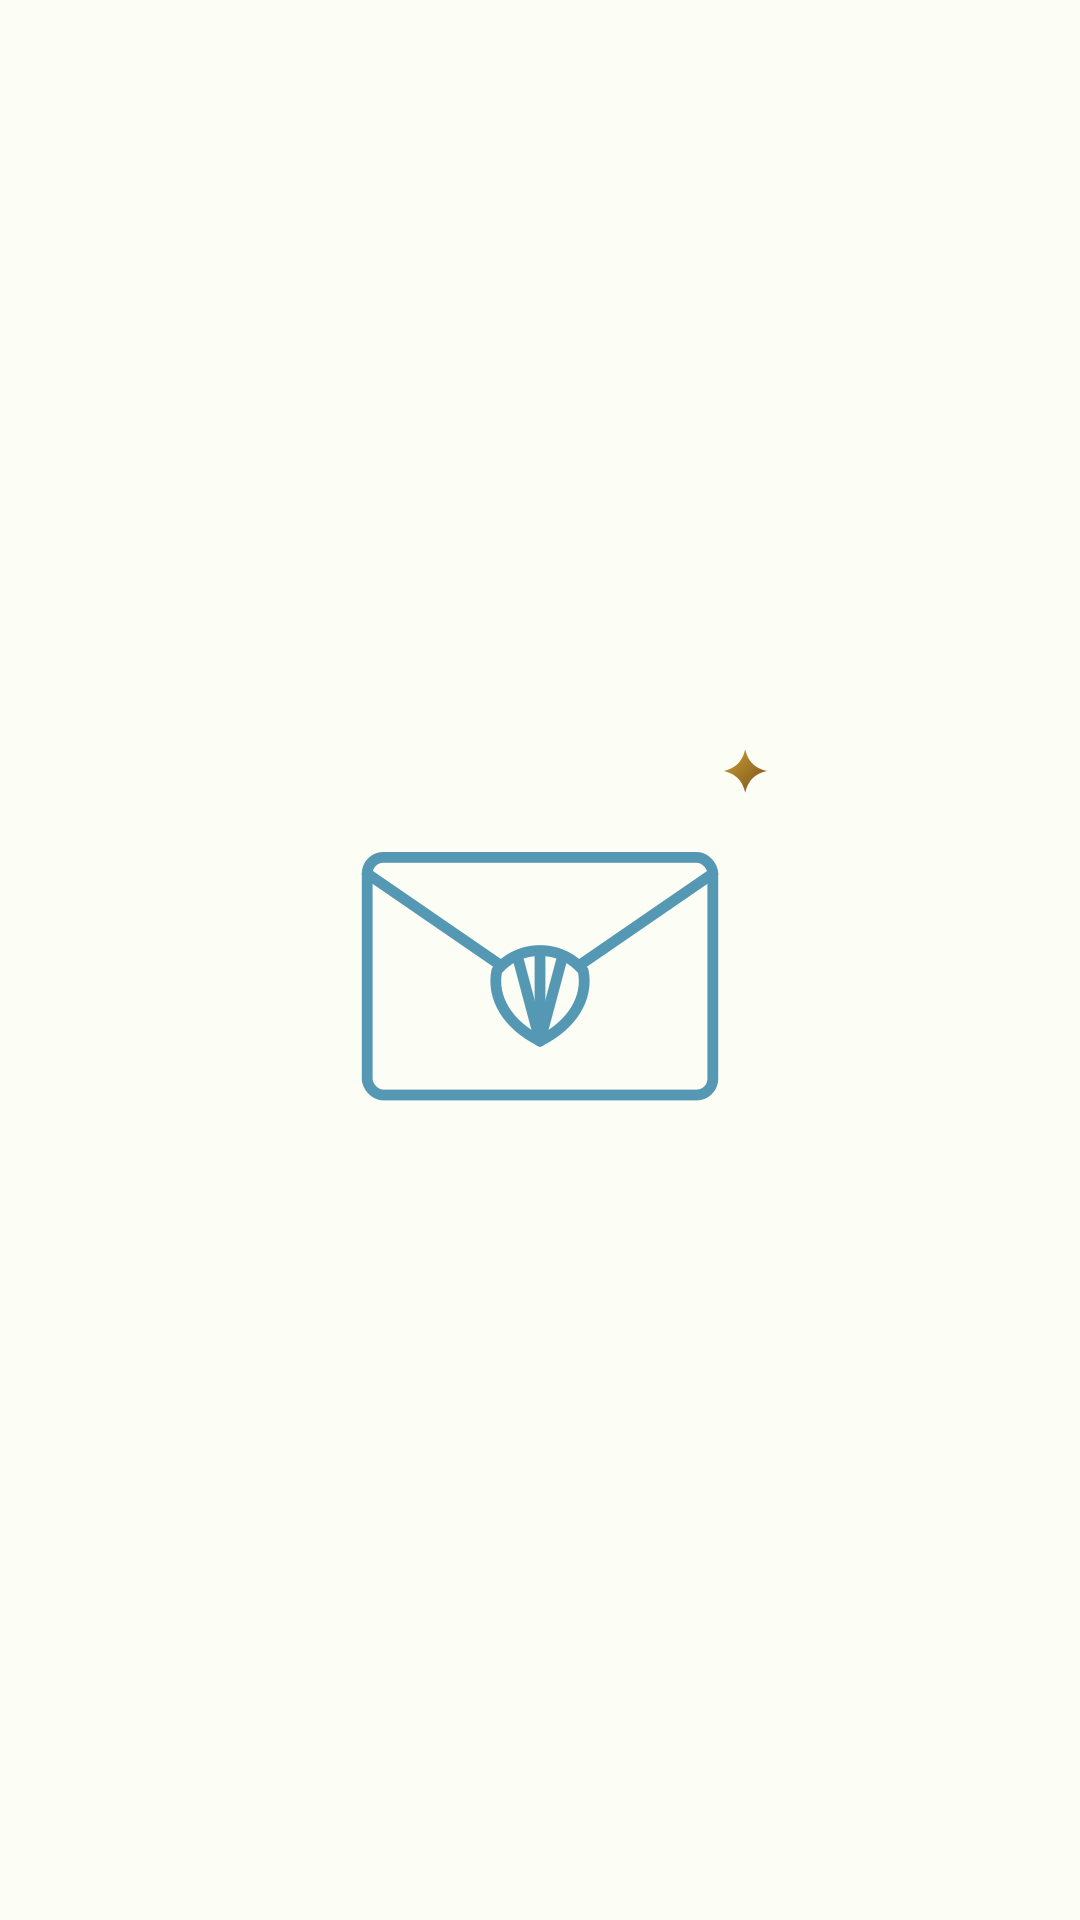
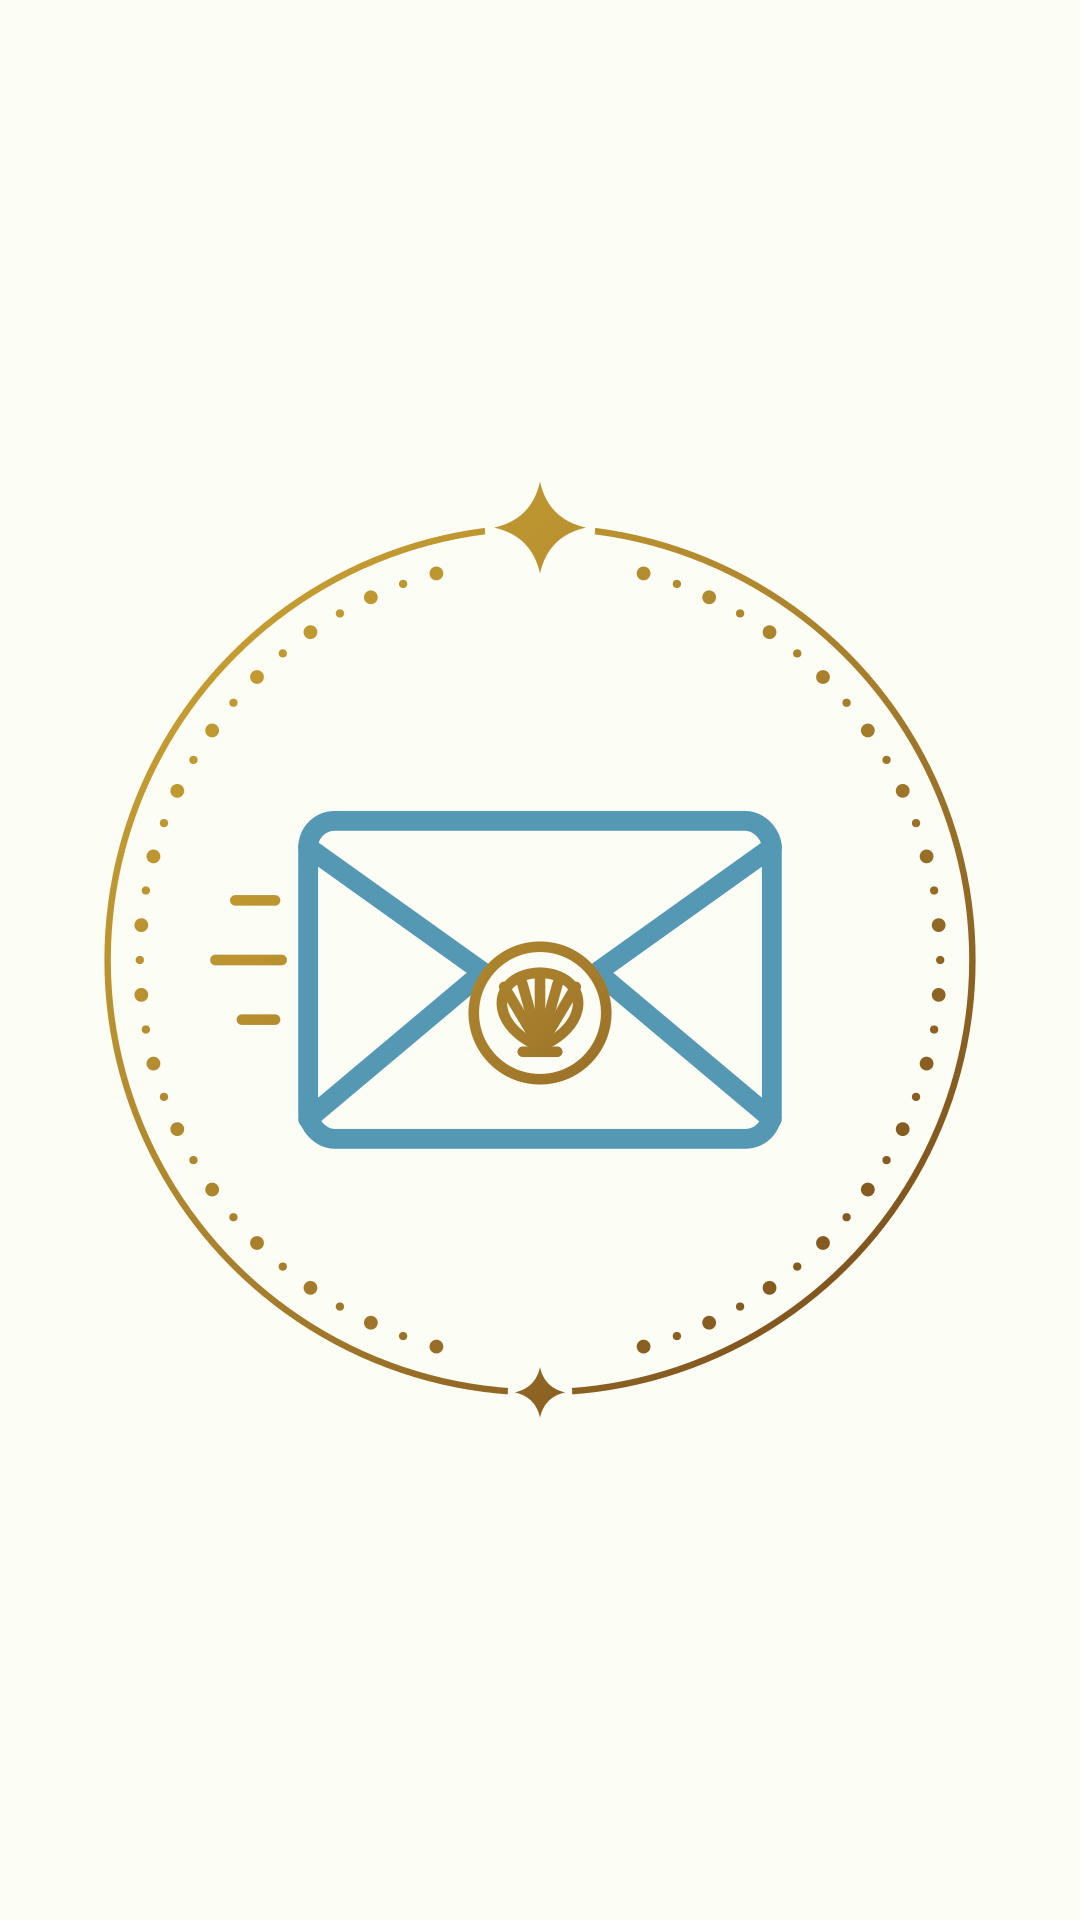
Deixa as capas dos destaques mais elaboradas, com moldura dourada e ícones em dois tons
Claude-Session: https://claude.ai/code/session_01SEXCXHhE5rPsFTnWY19DpN

diff --git a/madame-solara/gerar_destaques.py b/madame-solara/gerar_destaques.py
@@ -1,4 +1,9 @@
-"""Capas dos destaques do Instagram da Madame Solara, com ícones de traço fino."""
+"""Capas dos destaques do Instagram da Madame Solara.
+
+Cada capa tem uma moldura dourada com os pontinhos do logo e um ícone de moda praia em dois tons:
+traço principal azul e detalhes dourados.
+"""
+import math
 import os
 
 import cairosvg
@@ -6,44 +11,44 @@ import cairosvg
 AQUI = os.path.dirname(os.path.abspath(__file__))
 CREME = "#FCFDF5"
 AZUL = "#5598B3"
+OURO = "#A57D2C"
 W, H = 1080, 1920  # formato de story; o Instagram recorta o círculo do centro
+ESCALA = 4.6       # grade de 200 -> 920 px; o anel ocupa ~80% do círculo do destaque
 
-# Ícones desenhados numa grade de 200 x 200, todos com elementos de moda praia
-ICONES = {
-    "trocas": """
-        <path d="M66 82 Q62 104 72 118 Q86 123 97 113 Q86 97 66 82 Z"/>
-        <path d="M134 82 Q138 104 128 118 Q114 123 103 113 Q114 97 134 82 Z"/>
-        <path d="M66 82 C72 70 82 62 90 56"/><path d="M134 82 C128 70 118 62 110 56"/>
-        <path d="M72 118 Q58 121 46 116"/><path d="M128 118 Q142 121 154 116"/>
-        <circle cx="100" cy="113" r="2.4" fill="{traco}" stroke="none"/><path d="M32.3 75.4 A72 72 0 0 1 162.4 64.0"/><path d="M163.3 53.1 L162.4 64.0 L152.4 59.4"/><path d="M167.7 124.6 A72 72 0 0 1 37.6 136.0"/><path d="M36.7 146.9 L37.6 136.0 L47.6 140.6"/>""",
-    "pagamentos": """
-        <path d="M52 82 H148 L141 160 Q140 166 134 166 H66 Q60 166 59 160 Z"/>
-        <path d="M80 82 V72 C80 42 120 42 120 72 V82"/>
-        <path d="M56 104 C68 98 78 98 90 104 S112 110 124 104 S138 99 145 103"/>
-        <text x="100" y="151" text-anchor="middle" font-family="Italiana" font-size="36"
-              fill="{traco}" stroke="none">R$</text>""",
-    "envios": """
-        <rect x="36" y="62" width="128" height="88" rx="6"/>
-        <path d="M36 68 L100 112 L164 68"/>
-        <path d="M100 130 C88 124 82 114 84 104 C92 94 108 94 116 104 C118 114 112 124 100 130 Z" fill="{fundo}"/>
-        <path d="M100 130 L92 100"/><path d="M100 130 L100 97"/><path d="M100 130 L108 100"/>""",
-    "horarios": """
-        <path d="M50 112 A50 50 0 0 1 150 112"/><path d="M40.1 96.0 L26.6 92.3"/><path d="M56.2 68.2 L46.3 58.3"/><path d="M84.0 52.1 L80.3 38.6"/><path d="M116.0 52.1 L119.7 38.6"/><path d="M143.8 68.2 L153.7 58.3"/><path d="M159.9 96.0 L173.4 92.3"/>
-        <path d="M100 112 V82"/><path d="M100 112 L120 101"/>
-        <path d="M38 126 C53 118 68 118 83 126 S113 134 128 126 S152 119 162 125"/>
-        <path d="M62 142 C74 136 86 136 98 142 S122 148 138 142"/>""",
-    "localizacao": """
-        <path d="M100 148 C100 148 64 112 64 84 A36 36 0 0 1 136 84 C136 112 100 148 100 148 Z"/>
-        <circle cx="100" cy="84" r="12"/>
-        <path d="M44 166 C57 159 70 159 83 166 S109 173 122 166 S146 159 156 165"/>""",
-    "cuidados": """
-        <path d="M100 58 V52 C100 45 109 42 110 35 C111 28 103 24 97 27"/>
-        <path d="M100 58 L46 84 Q40 88 47 88 H153 Q160 88 154 84 Z"/>
-        <path d="M71 88 L75 104"/><path d="M129 88 L125 104"/>
-        <path d="M75 104 Q67 128 77 143 Q90 147 98 136 Q90 118 75 104 Z"/>
-        <path d="M125 104 Q133 128 123 143 Q110 147 102 136 Q110 118 125 104 Z"/>
-        <circle cx="100" cy="136" r="2.4" fill="{traco}" stroke="none"/>""",
-}
+
+def arco_seta(cx, cy, r, a0, a1):
+    """Arco no sentido horário com ponta de seta no fim."""
+    rad = math.radians
+    x0, y0 = cx + r * math.cos(rad(a0)), cy + r * math.sin(rad(a0))
+    x1, y1 = cx + r * math.cos(rad(a1)), cy + r * math.sin(rad(a1))
+    tx, ty = -math.sin(rad(a1)), math.cos(rad(a1))
+    nx, ny = math.cos(rad(a1)), math.sin(rad(a1))
+    L = 10
+    h1 = (x1 - tx * L + nx * L * 0.75, y1 - ty * L + ny * L * 0.75)
+    h2 = (x1 - tx * L - nx * L * 0.75, y1 - ty * L - ny * L * 0.75)
+    return (f'<path d="M{x0:.1f} {y0:.1f} A{r} {r} 0 0 1 {x1:.1f} {y1:.1f}"/>'
+            f'<path d="M{h1[0]:.1f} {h1[1]:.1f} L{x1:.1f} {y1:.1f} L{h2[0]:.1f} {h2[1]:.1f}"/>')
+
+
+def pontos(x0, x1, y, passo=9, onda=0.0):
+    """Fileira de pontinhos alternados, como os do sol do logo."""
+    s = []
+    for k, x in enumerate(range(x0, x1 + 1, passo)):
+        yy = y + onda * math.sin(k * 0.9)
+        s.append(f'<circle cx="{x}" cy="{yy:.1f}" r="{2.2 if k % 2 else 1.4}" fill="url(#ouro)" stroke="none"/>')
+    return "".join(s)
+
+
+def concha(cx, cy, w):
+    """Concha de leque (vieira) com nervuras."""
+    h = w * 0.86
+    bx, by = cx, cy + h / 2
+    s = (f'<path d="M{bx} {by} C{cx - w*0.62} {cy + h*0.2} {cx - w*0.56} {cy - h*0.48} {cx} {cy - h/2} '
+         f'C{cx + w*0.56} {cy - h*0.48} {cx + w*0.62} {cy + h*0.2} {bx} {by} Z" fill="{CREME}"/>')
+    for a in (-0.32, -0.16, 0, 0.16, 0.32):
+        s += f'<path d="M{bx} {by} L{cx + a*w*1.3:.1f} {cy - h*0.42 + abs(a)*h*0.35:.1f}"/>'
+    s += f'<path d="M{cx - w*0.2:.1f} {by + 1.5:.1f} H{cx + w*0.2:.1f}"/>'
+    return s
 
 
 def brilho(x, y, r):
@@ -52,21 +57,107 @@ def brilho(x, y, r):
             f'Q{x-k},{y+k} {x-r},{y} Q{x-k},{y-k} {x},{y-r} Z" fill="url(#ouro)" stroke="none"/>')
 
 
-def capa(nome):
-    escala = 2.7  # ícone de 540 px, metade do círculo do destaque
-    x0 = W / 2 - 100 * escala
-    y0 = H / 2 - 100 * escala
-    corpo = ICONES[nome].replace("{fundo}", CREME).replace("{traco}", AZUL)
+def biquini_top(cx, cy, k=1.0):
+    """Top cortininha: bojos e alças em azul; costura e laço em dourado."""
+    def t(x, y):
+        return f"{cx + (x - 100) * k:.1f} {cy + (y - 100) * k:.1f}"
+    azul = (f'<path d="M{t(64, 78)} Q{t(58, 104)} {t(70, 120)} Q{t(86, 126)} {t(97, 114)} Q{t(86, 95)} {t(64, 78)} Z"/>'
+            f'<path d="M{t(136, 78)} Q{t(142, 104)} {t(130, 120)} Q{t(114, 126)} {t(103, 114)} Q{t(114, 95)} {t(136, 78)} Z"/>'
+            f'<path d="M{t(64, 78)} C{t(70, 64)} {t(80, 56)} {t(90, 50)}"/>'
+            f'<path d="M{t(136, 78)} C{t(130, 64)} {t(120, 56)} {t(110, 50)}"/>'
+            f'<path d="M{t(70, 120)} Q{t(54, 124)} {t(40, 118)}"/>'
+            f'<path d="M{t(130, 120)} Q{t(146, 124)} {t(160, 118)}"/>')
+    ouro = (f'<path d="M{t(68, 100)} Q{t(80, 106)} {t(90, 112)}"/>'
+            f'<path d="M{t(132, 100)} Q{t(120, 106)} {t(110, 112)}"/>'
+            f'<path d="M{t(100, 113)} C{t(90, 104)} {t(86, 120)} {t(100, 113)}"/>'
+            f'<path d="M{t(100, 113)} C{t(110, 104)} {t(114, 120)} {t(100, 113)}"/>'
+            f'<path d="M{t(100, 113)} L{t(94, 125)}"/><path d="M{t(100, 113)} L{t(106, 125)}"/>')
+    return azul, ouro
+
+
+def icones():
+    top_a, top_o = biquini_top(100, 102, 0.82)
+    cab_a, cab_o = biquini_top(100, 134, 0.74)
+    raios = "".join(
+        f'<path d="M{100 + 52*math.cos(math.radians(a)):.1f} {108 + 52*math.sin(math.radians(a)):.1f} '
+        f'L{100 + (64 if a % 30 else 70)*math.cos(math.radians(a)):.1f} '
+        f'{108 + (64 if a % 30 else 70)*math.sin(math.radians(a)):.1f}"/>'
+        for a in range(195, 346, 15))
+    trama = "".join(f'<path d="M{x} 116 L{x - 12} 160"/>' for x in range(80, 146, 13))
+    trama += "".join(f'<path d="M{x} 116 L{x + 12} 160"/>' for x in range(58, 124, 13))
+    return {
+        "trocas": dict(
+            azul=top_a + arco_seta(100, 100, 74, 205, 325) + arco_seta(100, 100, 74, 25, 145),
+            ouro=top_o),
+        "pagamentos": dict(
+            azul=('<path d="M46 92 H154 L146 162 Q145 170 137 170 H63 Q55 170 54 162 Z"/>'
+                  '<path d="M74 92 V78 C74 46 126 46 126 78 V92"/>'),
+            ouro=('<path d="M84 92 V80 C84 60 116 60 116 80 V92"/>'
+                  '<path d="M50 108 C62 102 74 102 86 108 S110 114 122 108 S142 103 151 107"/>'
+                  + trama +
+                  f'<path d="M140 120 L160 112 L172 132 L156 150 L142 142 Z" fill="{CREME}"/>'
+                  '<circle cx="151" cy="122" r="2.4"/>'),
+            texto=f'<text x="0" y="0" text-anchor="middle" font-family="Outfit" font-size="12" fill="{OURO}" '
+                  'transform="translate(157 140) rotate(-22)">R$</text>'),
+        "envios": dict(
+            azul=('<rect x="30" y="58" width="140" height="96" rx="8"/>'
+                  '<path d="M30 66 L100 116 L170 66"/>'
+                  '<path d="M30 148 L80 106"/><path d="M170 148 L120 106"/>'),
+            ouro=(f'<circle cx="100" cy="116" r="20" fill="{CREME}"/>' + concha(100, 115, 26)
+                  + '<path d="M20 82 H8"/><path d="M22 100 H2"/><path d="M20 118 H10"/>')),
+        "horarios": dict(
+            azul=('<path d="M48 108 A52 52 0 0 1 152 108"/>'
+                  '<path d="M100 108 V72"/><path d="M100 108 L124 95"/>'
+                  '<path d="M28 122 C44 113 60 113 76 122 S108 131 124 122 S156 113 172 121"/>'
+                  '<path d="M50 142 C64 135 78 135 92 142 S120 149 134 142 S148 137 154 140"/>'),
+            ouro=raios + '<circle cx="100" cy="108" r="4.5" fill="url(#ouro)"/>' + pontos(46, 154, 132, 9, 1.4)),
+        "localizacao": dict(
+            azul=('<path d="M100 150 C100 150 58 110 58 80 A42 42 0 0 1 142 80 C142 110 100 150 100 150 Z"/>'
+                  '<path d="M32 164 C46 156 60 156 74 164 S102 172 116 164 S152 156 168 163"/>'),
+            ouro=concha(100, 79, 32) + pontos(44, 156, 178, 9, 1.4)),
+        "cuidados": dict(
+            azul=('<path d="M100 54 V48 C100 41 109 38 110 31 C111 24 103 20 97 23"/>'
+                  '<path d="M100 54 L38 86 Q32 90 39 90 H161 Q168 90 162 86 Z"/>' + cab_a),
+            ouro=cab_o + brilho(164, 120, 7) + brilho(36, 134, 5) + brilho(160, 152, 4)),
+    }
+
+
+def moldura():
+    """Anel dourado fino, anel de pontinhos e estrelas no topo e na base."""
+    s = ['<circle cx="100" cy="100" r="94" fill="none" stroke="url(#ouro)" stroke-width="1.4"/>']
+    for k in range(72):
+        g = (k * 5) % 360
+        if 80 <= g <= 100 or 260 <= g <= 280:
+            continue  # espaço para as estrelas
+        a = math.radians(g)
+        r = 1.5 if k % 2 else 0.9
+        s.append(f'<circle cx="{100 + 87*math.cos(a):.2f}" cy="{100 + 87*math.sin(a):.2f}" r="{r}" '
+                 'fill="url(#ouro)"/>')
+    s.append(f'<circle cx="100" cy="6" r="12" fill="{CREME}"/>')
+    s.append(brilho(100, 6, 10))
+    s.append(f'<circle cx="100" cy="194" r="7" fill="{CREME}"/>')
+    s.append(brilho(100, 194, 5.5))
+    return "".join(s)
+
+
+def capa(partes):
+    x0 = W / 2 - 100 * ESCALA
+    y0 = H / 2 - 100 * ESCALA
     return "\n".join([
         f'<svg xmlns="http://www.w3.org/2000/svg" width="{W}" height="{H}" viewBox="0 0 {W} {H}">',
-        '<defs><linearGradient id="ouro" x1="0" x2="1" y1="0" y2="1">'
-        '<stop offset="0" stop-color="#C9A132"/><stop offset="1" stop-color="#7A4E1C"/></linearGradient></defs>',
+        '<defs><linearGradient id="ouro" gradientUnits="userSpaceOnUse" x1="20" y1="20" x2="180" y2="180">'
+        '<stop offset="0" stop-color="#C9A132"/><stop offset="0.55" stop-color="#A57D2C"/>'
+        '<stop offset="1" stop-color="#7A4E1C"/></linearGradient></defs>',
         f'<rect width="{W}" height="{H}" fill="{CREME}"/>',
-        f'<g transform="translate({x0} {y0}) scale({escala})" fill="none" stroke="{AZUL}" '
-        f'stroke-width="4" stroke-linecap="round" stroke-linejoin="round">',
-        corpo,
-        brilho(176, 30, 8),
-        "</g>",
+        f'<g transform="translate({x0} {y0}) scale({ESCALA})">',
+        moldura(),
+        # ícone reduzido para caber dentro do anel
+        '<g transform="translate(100 100) scale(0.72) translate(-100 -100)" fill="none" '
+        'stroke-linecap="round" stroke-linejoin="round">',
+        f'<g stroke="{AZUL}" stroke-width="6">{partes["azul"]}</g>',
+        f'<g stroke="url(#ouro)" stroke-width="3.2">{partes["ouro"]}</g>',
+        partes.get("texto", ""),
+        "</g></g>",
         "</svg>",
     ])
 
@@ -74,8 +165,8 @@ def capa(nome):
 if __name__ == "__main__":
     pasta = os.path.join(AQUI, "destaques")
     os.makedirs(pasta, exist_ok=True)
-    for nome in ICONES:
-        svg = capa(nome)
+    for nome, partes in icones().items():
+        svg = capa(partes)
         base = os.path.join(pasta, f"destaque-{nome}")
         open(base + ".svg", "w").write(svg)
         cairosvg.svg2png(bytestring=svg.encode(), write_to=base + ".png")
